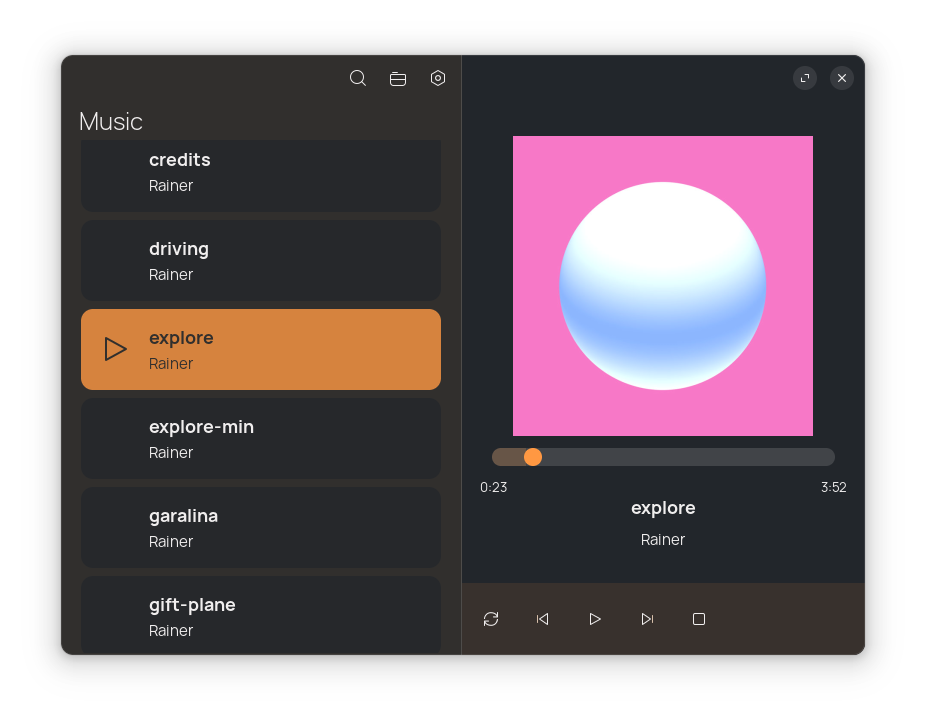
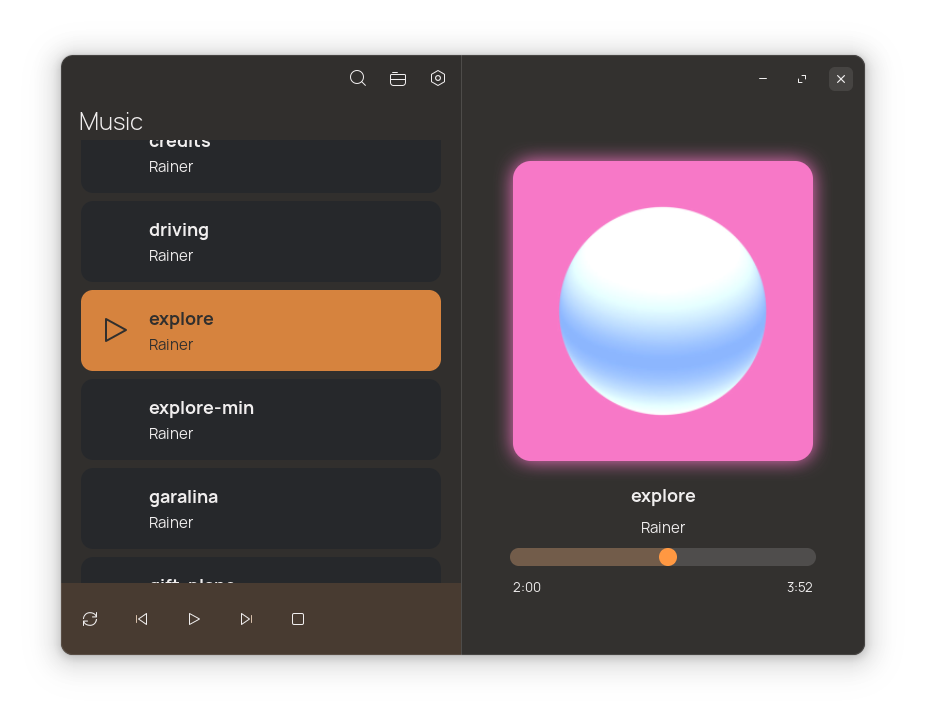
impl blurred shadow

diff --git a/data/style.css b/data/style.css
@@ -14,3 +14,7 @@
 .info-view {
   background: @view_bg_color;
 }
+
+.cover-art {
+  filter: drop-shadow(0px 0px 5px rgba(0, 0, 0, 0.25)) blur(10px);
+}
